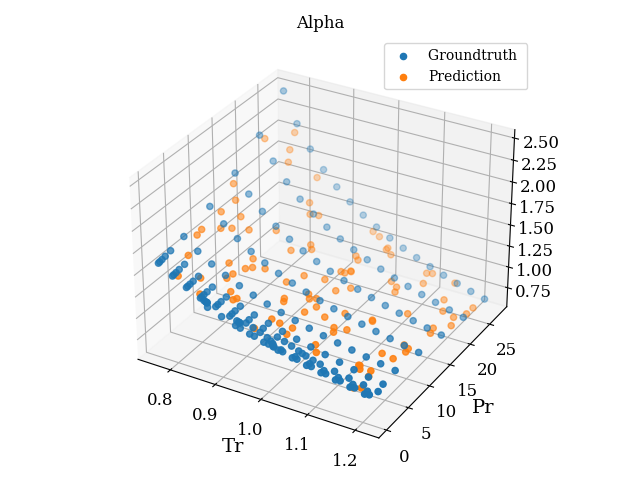
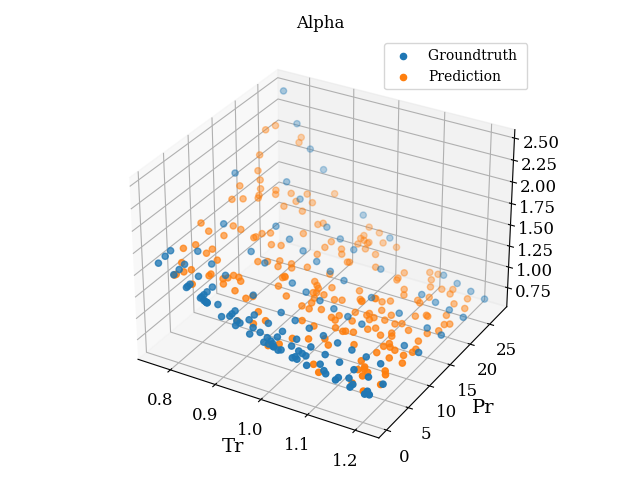
Validation in Python

Changed region(s): [[0.25, 0.3438, 0.75, 0.8438], [0.4062, 0.25, 0.5, 0.3438], [0.5312, 0.4062, 0.5625, 0.4375]]

diff --git a/src/test_GPB.py b/src/test_GPB.py
@@ -1,8 +1,14 @@
 from utils import *
 from copy import deepcopy
+np.random.seed(0)
 
-# name = "o2"
+## settings for C12
+fluid = "C12"
 name = 'c12h26'
+
+# # settings for O2
+# fluid = "oxygen"
+# name = "o2"
 
 # ================================================
 # load data
@@ -11,6 +17,16 @@ dim = data.shape[1]-1
 X = data[:,:dim]
 y = data[:,dim]
 N = len(y)
+
+Ntrain = int(N*0.7)
+Ntest = N - Ntrain
+idx = np.random.permutation(N)
+Xall = deepcopy(X)
+yall = deepcopy(y)
+X = Xall[idx[:Ntrain], :]
+y = yall[idx[:Ntrain]]
+Xtest = Xall[idx[Ntrain:], :]
+ytest = yall[idx[Ntrain:]]
 
 para = np.loadtxt('mech/Alpha/%s_para.csv'%name, delimiter=',')
 𝛾 = para[0,:dim] # kernel size
@@ -39,7 +55,7 @@ def dfdθ(x, θ):
 
 K0  = k0(X, X)
 df = dfdθ(X,θ)
-Hm = [np.outer(df[i], df[j]) * K0[i,j] for i in range(N) for j in range(N)]
+Hm = [np.outer(df[i], df[j]) * K0[i,j] for i in range(len(X)) for j in range(len(X))]
 H = np.mean(Hm, axis=0)
 
 def h(X1, X, θ):
@@ -49,6 +65,7 @@ def h(X1, X, θ):
 
 def k(X1, X2, X, H, θ):
     return k0(X1,X2) + h(X1,X,θ).T @ H @ h(X2,X,θ)
+
 
 # ================================================
 # random queries
@@ -62,7 +79,7 @@ Xnew = Xnew[np.argsort(Xnew[:,1]),:]
 Xnew = Xnew[np.argsort(Xnew[:,0]),:]
 
 K = k(X, X, X, H, θ)
-Ki = np.linalg.inv(K + 1e-4*np.diag(np.ones(N)))
+Ki = np.linalg.inv(K + 1e-4*np.diag(np.ones(len(X))))
 Kxx = k(Xnew, Xnew, X, H, θ)
 Kx = k(X, Xnew, X, H, θ)
 
@@ -87,5 +104,18 @@ ax.set_xlabel("Tr")
 ax.set_ylabel("Pr")
 ax.set_zlabel("Alpha")
 plt.legend(["Groundtruth ", "Prediction"])
+
+# ================================================
+# Extra validation
+ypred_train = f(X,θ) + k(X, X, X, H, θ).T @ Ki @ (y-f(X,θ))
+ypred_test = f(Xtest,θ) + k(X, Xtest, X, H, θ).T @ Ki @ (y-f(X,θ))
+
+fig = plt.figure()
+plt.plot(y, ypred_train, 'rs', fillstyle="none", label='Training Data')
+plt.plot(ytest, ypred_test, 'gv', fillstyle="none", label='Test Data')
+plt.xlabel("Groundtruth")
+plt.ylabel("Prediction")
+plt.legend()
+fig.savefig("figs/PythonAlphaGPB_Validation_%s.png"%fluid)
 
 plt.show()

diff --git a/src/test_GP.py b/src/test_GP.py
@@ -1,5 +1,6 @@
 from utils import *
 from copy import deepcopy
+np.random.seed(0)
 
 ## settings for C12
 fluid = "C12"
@@ -17,6 +18,16 @@ X = data[:,:dim]
 y = data[:,dim]
 N = len(y)
 
+Ntrain = int(N*0.7)
+Ntest = N - Ntrain
+idx = np.random.permutation(N)
+Xall = deepcopy(X)
+yall = deepcopy(y)
+X = Xall[idx[:Ntrain], :]
+y = yall[idx[:Ntrain]]
+Xtest = Xall[idx[Ntrain:], :]
+ytest = yall[idx[Ntrain:]]
+
 para = np.loadtxt('mech/Alpha/%s_para.csv'%name, delimiter=',')
 𝛾 = para[0,:dim] # kernel size
 σ = para[0,dim]  # kernel multiplier
@@ -33,7 +44,7 @@ def k0(X1, X2, 𝛾=𝛾, σ=σ):
 
 # ================================================
 # random queries
-M = 100
+M = 200
 x1lim = [np.min(X[:,0]), np.max(X[:,0])]
 x2lim = [np.min(X[:,1]), np.max(X[:,1])]
 Xnew = np.random.rand(M, dim)
@@ -47,7 +58,7 @@ Xnew = Xnew[np.argsort(Xnew[:,0]),:]
 Kxx = k0(Xnew, Xnew)
 Kx = k0(X, Xnew)
 K  = k0(X, X)
-Ki = np.linalg.inv(K + 1e-4*np.diag(np.ones(N)))
+Ki = np.linalg.inv(K + 1e-4*np.diag(np.ones(len(X))))
 
 mu = Kx.T @ Ki @ y
 cov = Kxx - Kx.T @ Ki @ Kx
@@ -98,5 +109,18 @@ ax.set_xlabel("Tr")
 ax.set_ylabel("Pr")
 plt.legend(["PR", "AlphaGP"])
 fig.savefig("figs/PythonAlphaGP_d2alphadT2_%s.png"%fluid)
+
+# ================================================
+# Extra validation
+ypred_train = k0(X, X).T @ Ki @ y
+ypred_test = k0(X, Xtest).T @ Ki @ y
+
+fig = plt.figure()
+plt.plot(y, ypred_train, 'rs', fillstyle="none", label='Training Data')
+plt.plot(ytest, ypred_test, 'gv', fillstyle="none", label='Test Data')
+plt.xlabel("Groundtruth")
+plt.ylabel("Prediction")
+plt.legend()
+fig.savefig("figs/PythonAlphaGP_Validation_%s.png"%fluid)
 
 plt.show()

diff --git a/README.md b/README.md
@@ -438,7 +438,29 @@ ThermoPhase::setState_TP(t, p)
 
 <img src="figs/PythonAlphaGP_d2alphadT2_C12.png" style="width:48%;" /> <img src="figs/PythonAlphaGP_d2alphadT2_oxygen.png" style="width:48%;" />
 
++ From the  view of fitting:
 
+  + The PR EoS is an approximation of `real` EoS, and $\alpha(T_r, P_r)$ is a modeled empirical term in PR EoS.
+    $$
+    p = \frac{R T}{V-b} - \frac{a\alpha}{V^2+2Vb-b^2}
+    $$
+
+  + And the heat capacity is a function of $C_p=f(p,T,\alpha,\frac{\partial \alpha}{\partial T}, \frac{\partial^2 \alpha}{\partial T^2})$ 
+    $$
+    \begin{align*}
+    C_p &= \left(\frac{\partial H}{\partial T}\right)_V - V \left(\frac{\partial p}{\partial T}\right) - T \left(\frac{\partial p}{\partial T} \right)^2 /\frac{\partial p}{\partial V} \\
+    \left(\frac{\partial H}{\partial T}\right)_V &= C_{p,0} + V\frac{\partial p}{\partial T} - R + \frac{1}{2\sqrt2 b}\log(\frac{V+b}{V-b}) T \frac{\partial^2 (a\alpha)_m}{\partial T^2} \\
+    \frac{\partial p}{\partial T} &= \frac{R}{V-b} - \frac{\partial (a\alpha)_m}{\partial T} \frac{1}{V^2+2Vb-b^2} \\
+    \frac{\partial p}{\partial V} &= -\frac{RT}{(V-b)^2} + 2\frac{(a\alpha)_m(V+b)}{V^2+2Vb-b^2} \\
+    
+    \end{align*}
+    $$
+  
+  + Therefore, using $\alpha$ from $p,T,V$ 
+    $$
+    \alpha = \frac{V^2+2Vb-b^2}{a} \left(\frac{R T}{V-b} - p \right)
+    $$
+    would only improve the accuracy of $V$ or $\rho$, but could not improve the performance of $C_p$.
 
 
 
